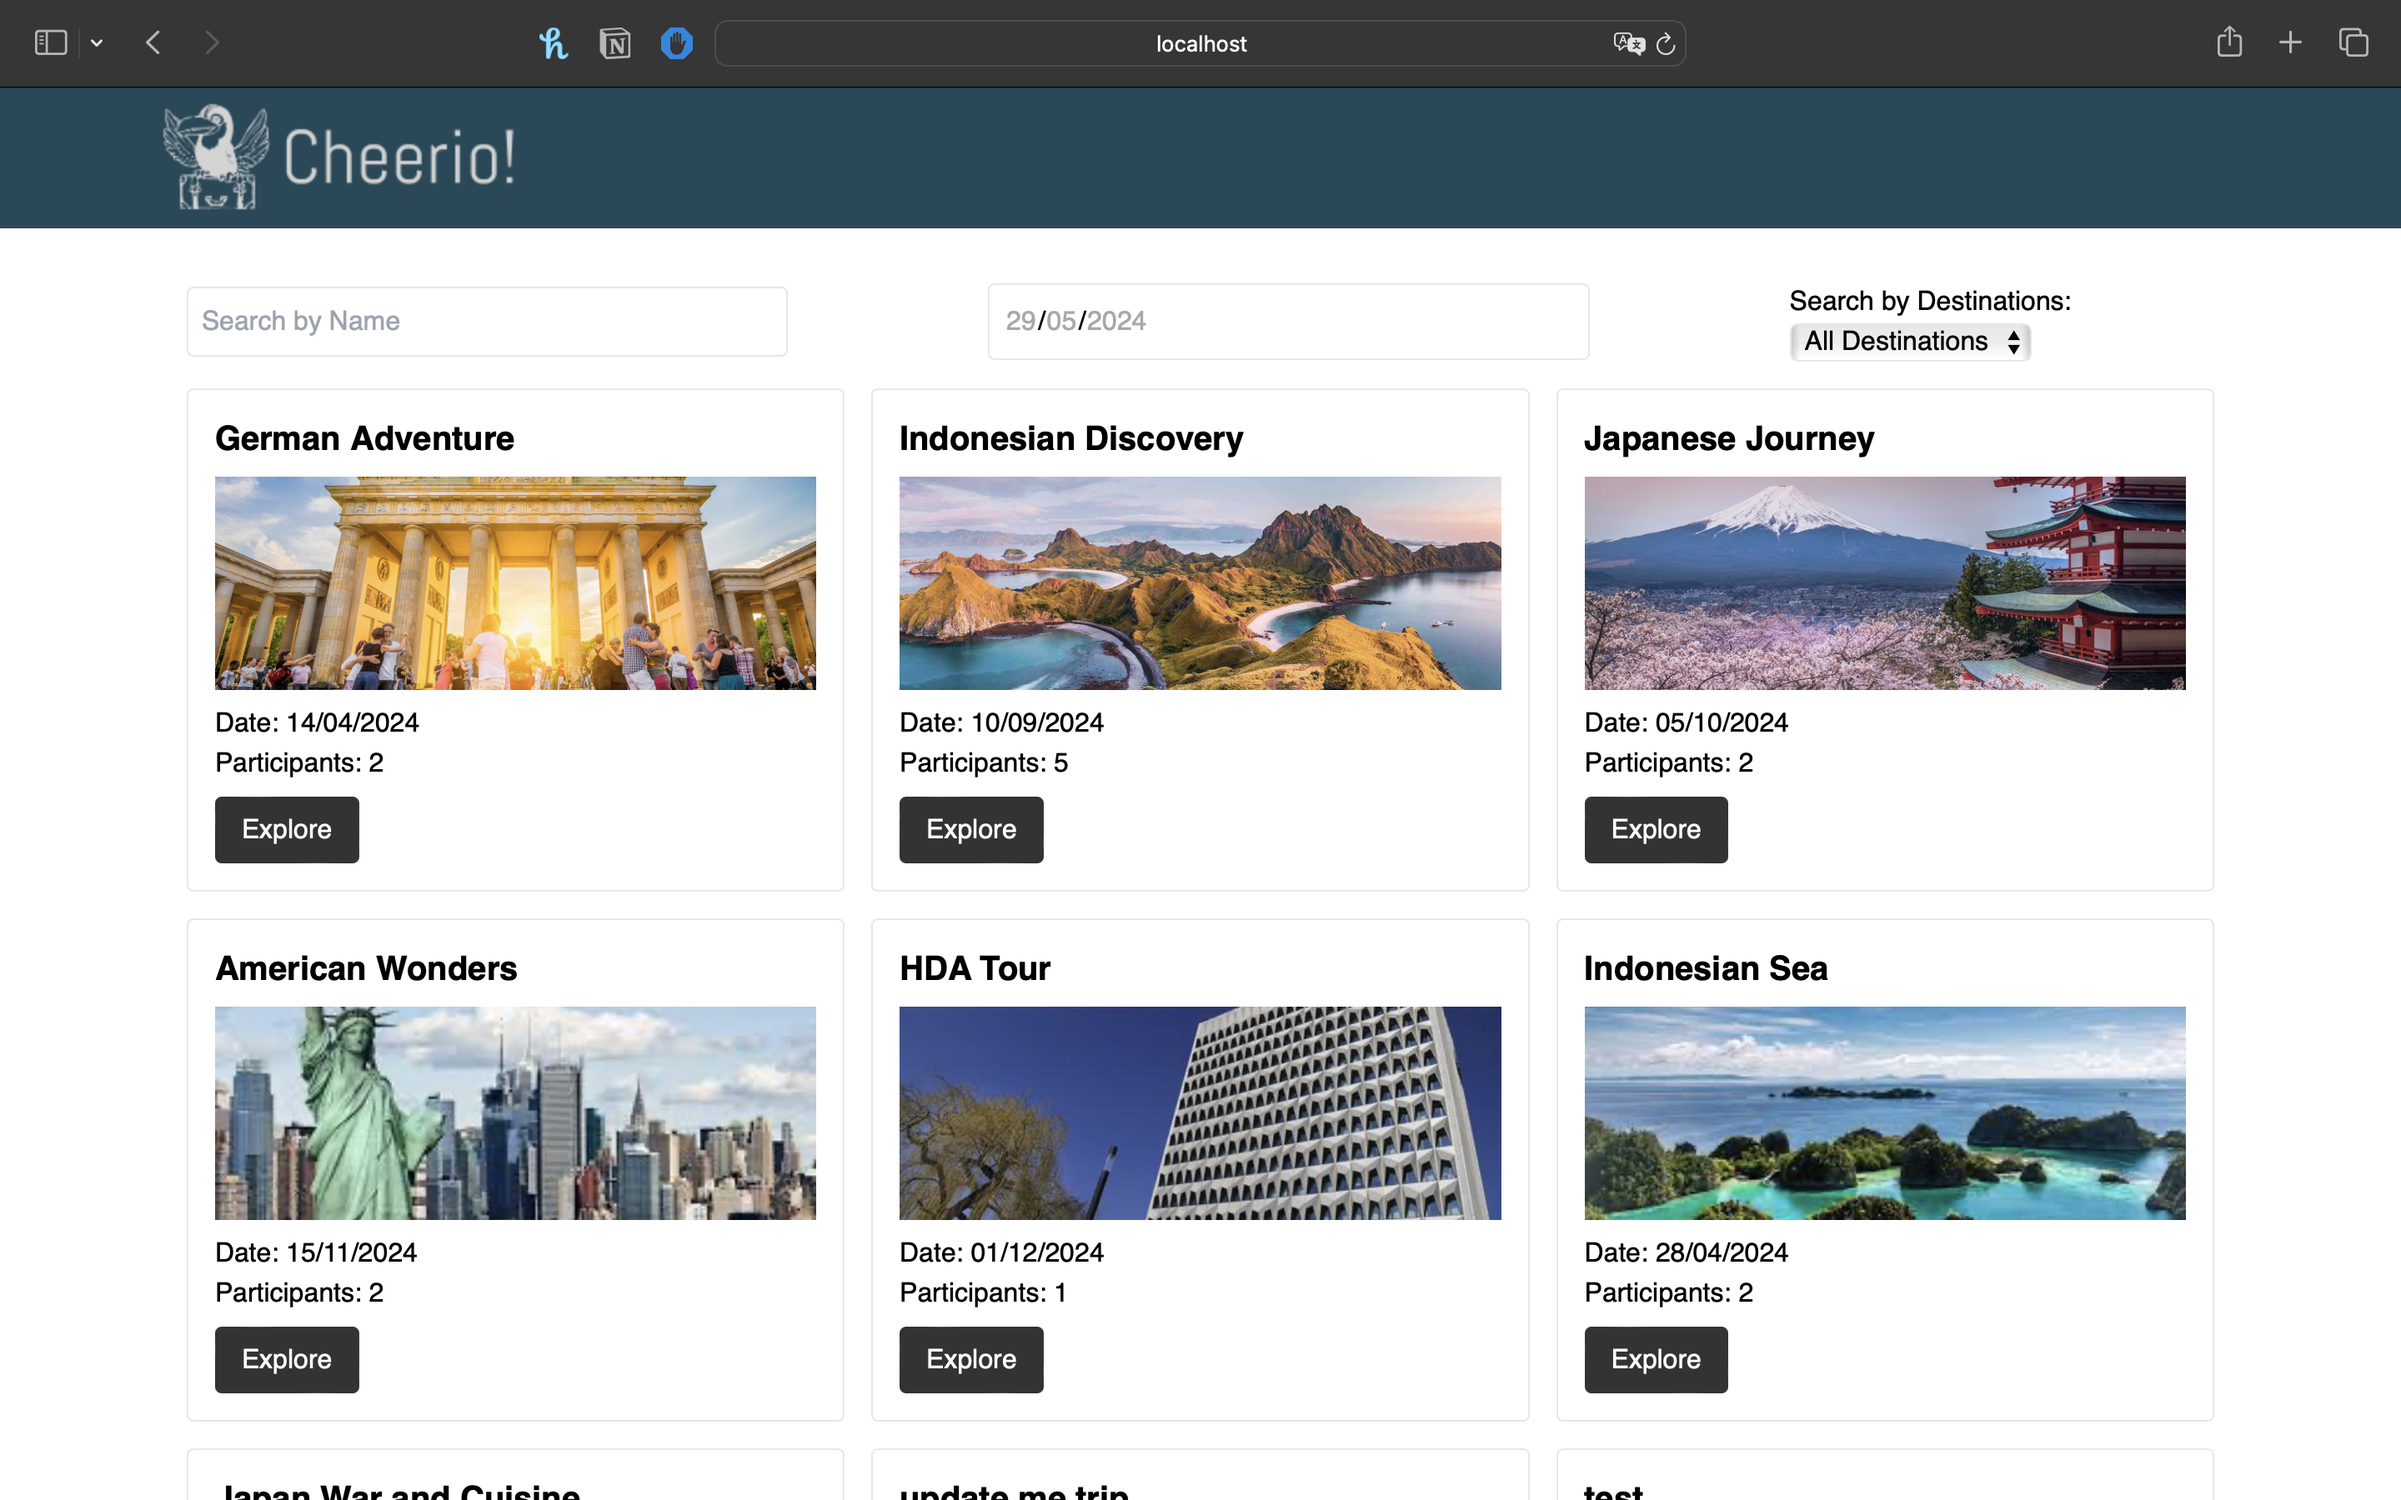
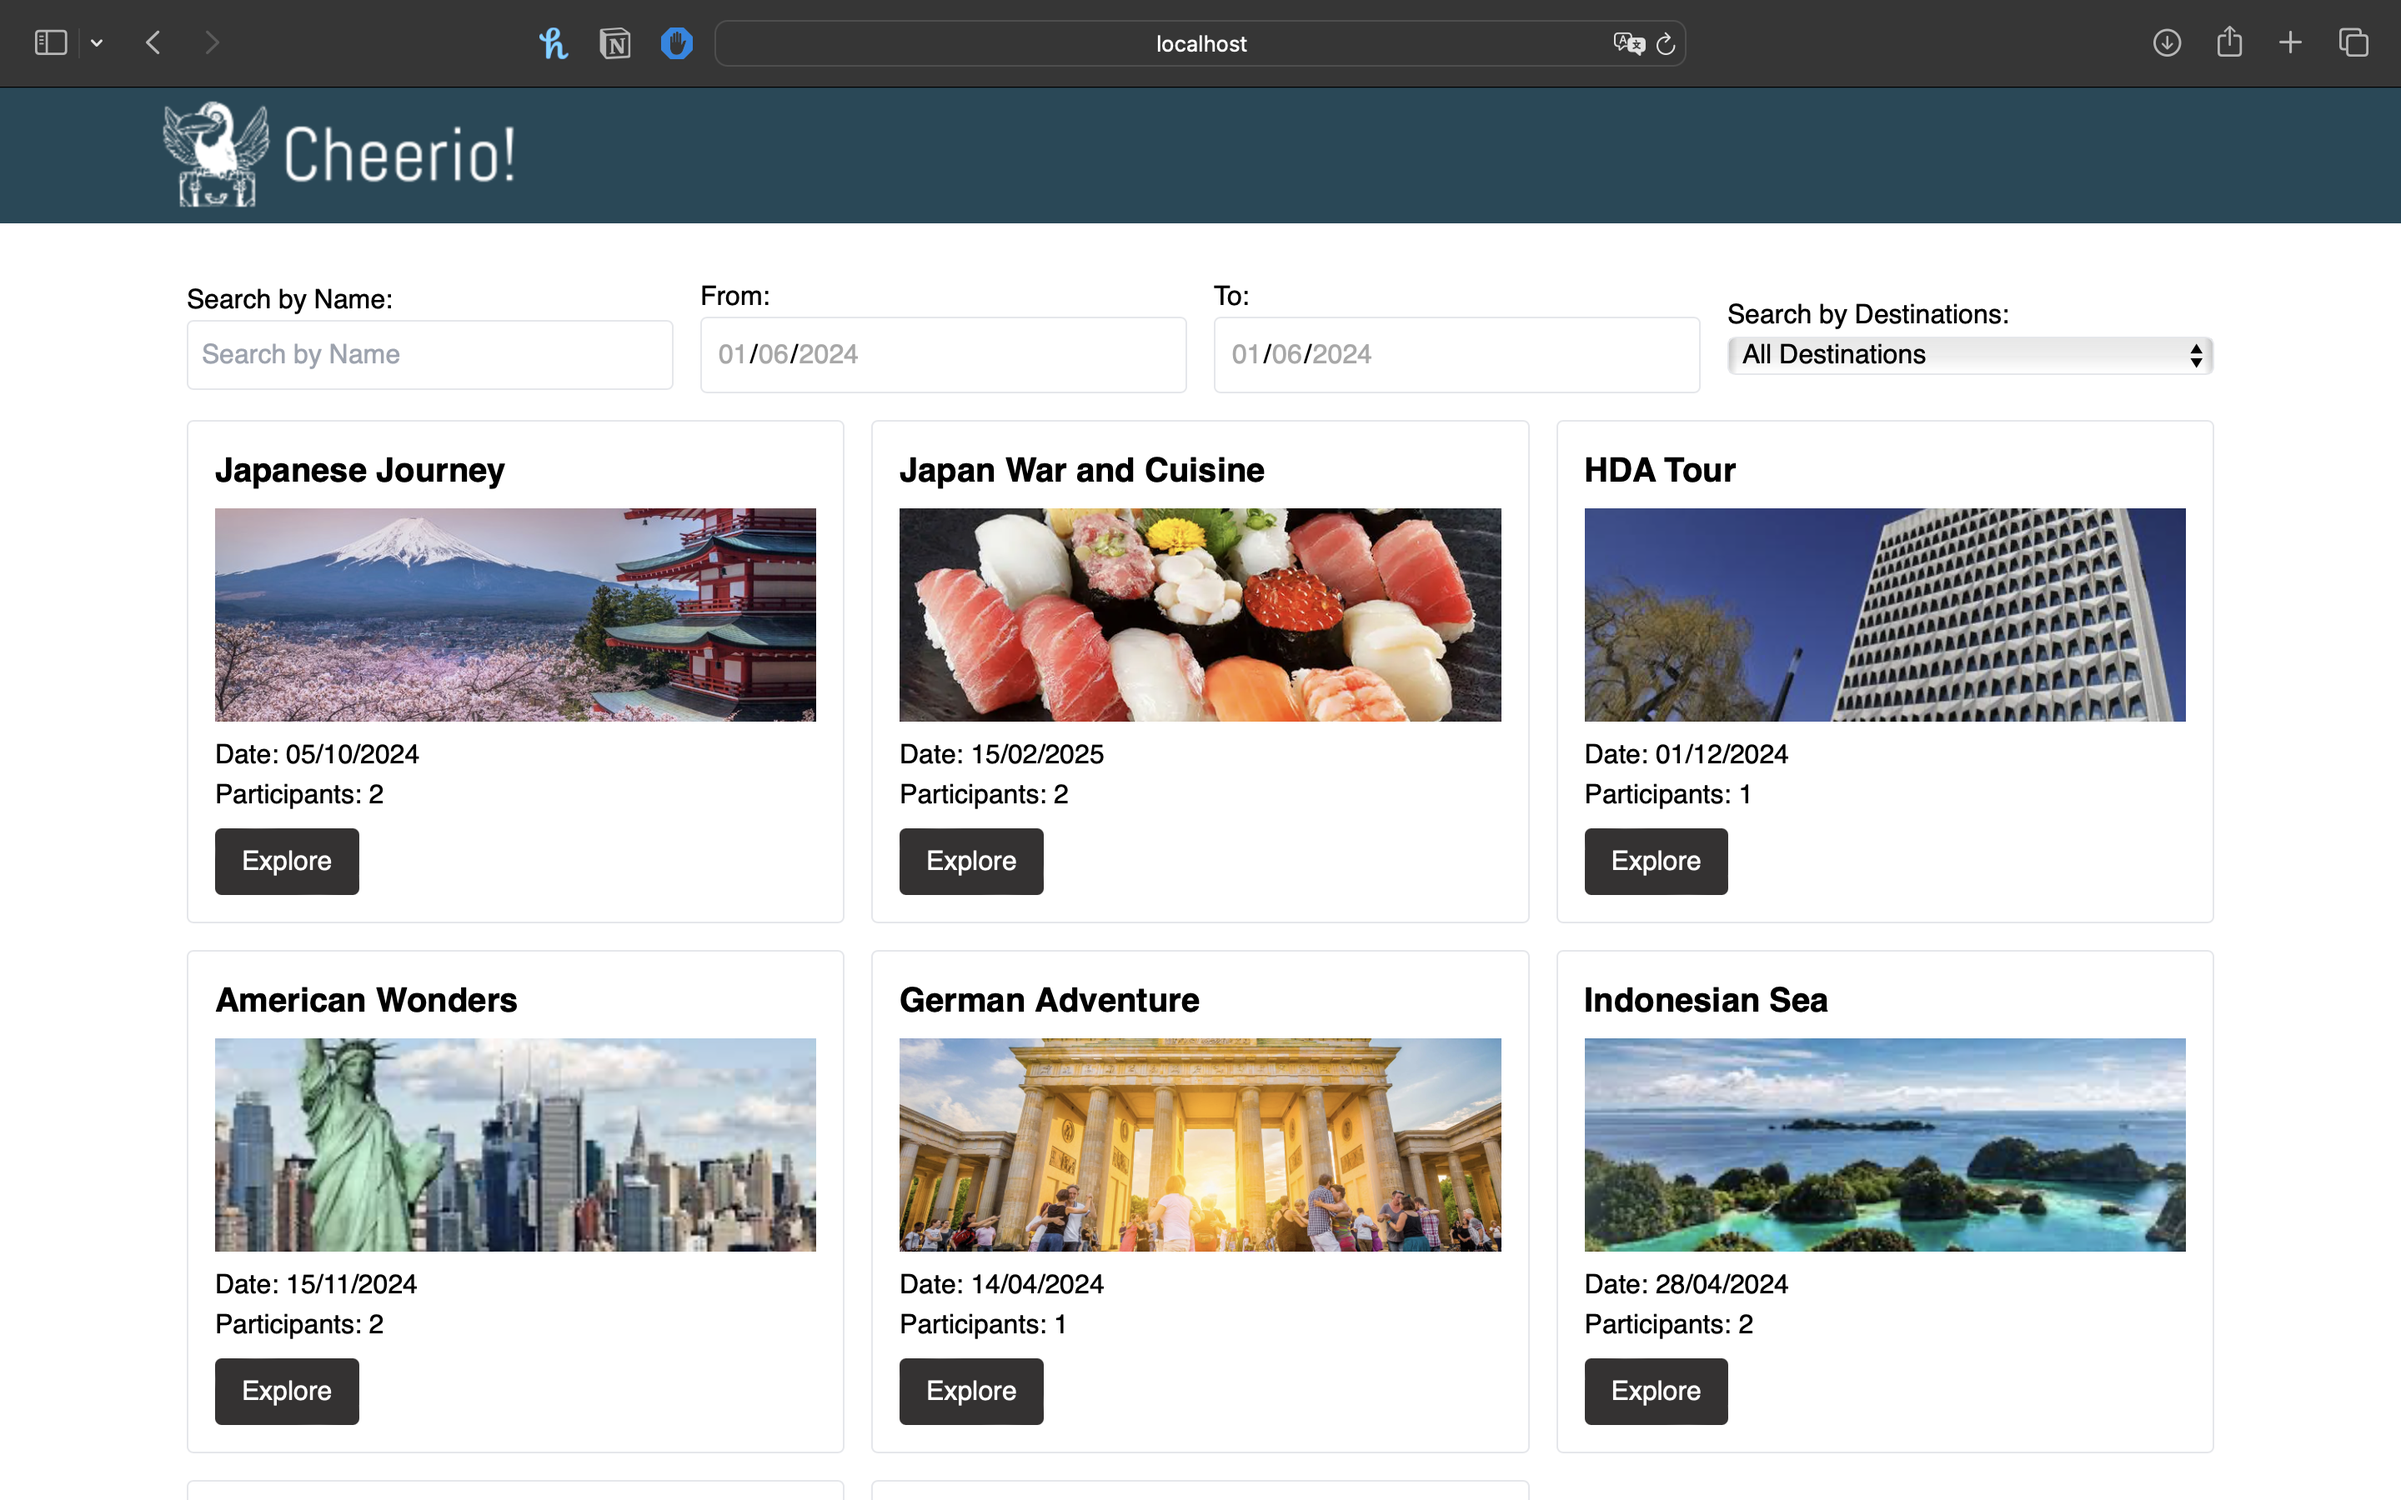
change date filteirng from to

diff --git a/server/src/tests/trips.test.ts b/server/src/tests/trips.test.ts
@@ -276,40 +276,73 @@ describe('Trip API', () => {
     expect(response.body[0].name).toBe('Trip 1');
   });
   
-  it('should find trips based on date', async () => {
-    const tripData = [
-      { name: 'Trip 1', description: 'Description of trip 1', imageUrl: 'image-url', participants: [], destinations: [], date: '2022-01-01' },
-      { name: 'Trip 2', description: 'Description of trip 2', imageUrl: 'image-url', participants: [], destinations: [], date: '2022-01-02' },
-      { name: 'Trip 3', description: 'Description of trip 3', imageUrl: 'image-url', participants: [], destinations: [], date: '2022-01-03' },
-    ];
   
-    await Trip.insertMany(tripData);
+  describe('Trip API Date Range Filtering', () => {
+    beforeEach(async () => {
+      const tripData = [
+        { name: 'Trip 1', description: 'Description of trip 1', imageUrl: 'image-url', participants: [], destinations: [], date: '2022-01-01' },
+        { name: 'Trip 2', description: 'Description of trip 2', imageUrl: 'image-url', participants: [], destinations: [], date: '2022-01-15' },
+        { name: 'Trip 3', description: 'Description of trip 3', imageUrl: 'image-url', participants: [], destinations: [], date: '2022-02-01' },
+      ];
   
-    const response = await request(app)
-      .get('/trips')
-      .query({ date: '2022-01-02' })
-      .expect(200);
+      await Trip.insertMany(tripData);
+    });
   
-    expect(response.body.length).toBe(1);
+    it('should find trips within a date range', async () => {
+      const response = await request(app)
+        .get('/trips')
+        .query({ dateFrom: '2022-01-01', dateTo: '2022-01-31' })
+        .expect(200);
+  
+      expect(response.body.length).toBe(2);
+      expect(response.body).toEqual(expect.arrayContaining([
+        expect.objectContaining({ name: 'Trip 1' }),
+        expect.objectContaining({ name: 'Trip 2' }),
+      ]));
+    });
+  
+    it('should find trips from a specific start date', async () => {
+      const response = await request(app)
+        .get('/trips')
+        .query({ dateFrom: '2022-01-10' })
+        .expect(200);
+  
+      expect(response.body.length).toBe(2);
+      expect(response.body).toEqual(expect.arrayContaining([
+        expect.objectContaining({ name: 'Trip 2' }),
+        expect.objectContaining({ name: 'Trip 3' }),
+      ]));
+    });
+  
+    it('should find trips up to a specific end date', async () => {
+      const response = await request(app)
+        .get('/trips')
+        .query({ dateTo: '2022-01-10' })
+        .expect(200);
+  
+      expect(response.body.length).toBe(1);
+      expect(response.body[0].name).toBe('Trip 1');
+    });
+  
+    it('should return an empty array if no trips fall within the date range', async () => {
+      const response = await request(app)
+        .get('/trips')
+        .query({ dateFrom: '2023-01-01', dateTo: '2023-01-31' })
+        .expect(200);
+  
+      expect(response.body.length).toBe(0);
+    });
+  
+    it('should return an error for invalid date formats', async () => {
+      const response = await request(app)
+        .get('/trips')
+        .query({ dateFrom: 'invalid-date', dateTo: '2022-01-31' })
+        .expect(400);
+  
+      expect(response.body.message).toBe('Invalid from date format');
+    });
   });
   
-  it('should find trips based on name and date', async () => {
-    const tripData = [
-      { name: 'Trip 1', description: 'Description of trip 1', imageUrl: 'image-url', participants: [], destinations: [], date: '2022-01-01' },
-      { name: 'Trip 2', description: 'Description of trip 2', imageUrl: 'image-url', participants: [], destinations: [], date: '2022-01-02' },
-      { name: 'Trip 3', description: 'Description of trip 3', imageUrl: 'image-url', participants: [], destinations: [], date: '2022-01-03' },
-    ];
-  
-    await Trip.insertMany(tripData);
-  
-    const response = await request(app)
-      .get('/trips')
-      .query({ name: 'Trip 1', date: '2022-01-01' })
-      .expect(200);
-
-    expect(response.body.length).toBe(1);
-    expect(response.body[0].name).toBe('Trip 1');
-  });
   
 
   it('should find trips based on destination', async () => {

diff --git a/client/src/components/Trips.tsx b/client/src/components/Trips.tsx
@@ -11,13 +11,14 @@ const Trips = () => {
   const navigate = useNavigate();
   const [trips, setTrips] = useState([]);
   const [searchTerm, setSearchTerm] = useState("");
-  const [dateFilter, setDateFilter] = useState("");
+  const [dateFrom, setDateFrom] = useState("");
+  const [dateTo, setDateTo] = useState("");
   const [destinations, setDestinations] = useState([]);
   const [selectedDestination, setSelectedDestination] = useState("");
 
   useEffect(() => {
     const fetchData = async () => {
-      const data = await searchTrips({ name: searchTerm, date: dateFilter });
+      const data = await searchTrips({ name: searchTerm, dateFrom, dateTo });
       setTrips(data);
     };
 
@@ -28,7 +29,7 @@ const Trips = () => {
 
     fetchData();
     fetchDestinations();
-  }, [searchTerm, dateFilter]);
+  }, [searchTerm, dateFrom, dateTo]);
 
   const handleExploreClick = (trip: any) => {
     navigate(`/destination/${trip._id}`);
@@ -36,7 +37,7 @@ const Trips = () => {
 
   const handleDestinationChange = async (destinationId: string) => {
     if (destinationId === "") {
-      const data = await searchTrips({ name: searchTerm, date: dateFilter });
+      const data = await searchTrips({ name: searchTerm, dateFrom, dateTo });
       setTrips(data);
       setSelectedDestination("");
     } else {
@@ -49,32 +50,50 @@ const Trips = () => {
   return (
     <Layout>
       <div className="container mx-auto p-4">
-        <div className="flex justify-between items-center mb-4">
-          <div className="w-1/2">
+        <div className="flex justify-between items-center mb-4 gap-4">
+          <div className="w-1/4">
+          <label htmlFor="destination" className="mr-2">
+              Search by Name:
+            </label>
             <input
               type="text"
               placeholder="Search by Name"
-              className="border p-2 rounded w-3/4 m-auto"
+              className="border p-2 rounded w-full"
               value={searchTerm}
               onChange={(e) => setSearchTerm(e.target.value)}
             />
           </div>
-          <div className="w-1/2">
+          <div className="w-1/4">
+          <label htmlFor="destination" className="mr-2">
+              From:
+            </label>
             <input
               type="date"
-              placeholder="Filter by Date"
-              className="border p-2 rounded w-3/4 m-auto"
-              value={dateFilter}
-              onChange={(e) => setDateFilter(e.target.value)}
+              placeholder="From Date"
+              className="border p-2 rounded w-full"
+              value={dateFrom}
+              onChange={(e) => setDateFrom(e.target.value)}
             />
           </div>
-          <div className="relative">
+          <div className="w-1/4">
+          <label htmlFor="destination" className="mr-2">
+             To:
+            </label>
+            <input
+              type="date"
+              placeholder="To Date"
+              className="border p-2 rounded w-full"
+              value={dateTo}
+              onChange={(e) => setDateTo(e.target.value)}
+            />
+          </div>
+          <div className="relative w-1/4">
             <label htmlFor="destination" className="mr-2">
               Search by Destinations:
             </label>
             <select
               id="destination"
-              className="border p-2 rounded"
+              className="border p-2 rounded w-full"
               value={selectedDestination}
               onChange={(e) => handleDestinationChange(e.target.value)}
             >

diff --git a/server/src/routes/trips.ts b/server/src/routes/trips.ts
@@ -130,10 +130,9 @@ tripRouter.get('/:id', async (req, res) => {
   }
 });
 
-// Find trips based on name or date or both
 tripRouter.get('/', async (req, res) => {
   try {
-    const { name, date } = req.query;
+    const { name, dateFrom, dateTo } = req.query;
 
     const query: any = {};
 
@@ -141,9 +140,24 @@ tripRouter.get('/', async (req, res) => {
       query.name = { $regex: new RegExp(name as string, 'i') };
     }
 
-    if (date) {
-      const parsedDate = new Date(date as string);
-      query.date = parsedDate
+    if (dateFrom || dateTo) {
+      query.date = {};
+      if (dateFrom) {
+        const parsedDateFrom = new Date(dateFrom as string);
+        if (!isNaN(parsedDateFrom.getTime())) {
+          query.date.$gte = parsedDateFrom;
+        } else {
+          return res.status(400).json({ message: 'Invalid from date format' });
+        }
+      }
+      if (dateTo) {
+        const parsedDateTo = new Date(dateTo as string);
+        if (!isNaN(parsedDateTo.getTime())) {
+          query.date.$lte = parsedDateTo;
+        } else {
+          return res.status(400).json({ message: 'Invalid to date format' });
+        }
+      }
     }
 
     const trips = await Trip.find(query);
@@ -152,6 +166,7 @@ tripRouter.get('/', async (req, res) => {
     res.status(500).json({ message: 'Failed to fetch trips', error });
   }
 });
+
 
 // Find trips based on destination
 tripRouter.get('/byDestination/:id', async (req, res) => {

diff --git a/client/src/services/api.ts b/client/src/services/api.ts
@@ -99,10 +99,11 @@ export const getTripById = async (id: string) => {
   return response.data;
 };
 
-export const searchTrips = async (params?: {name?: string, date?: string}) => {
-    const response = await api.get('/trips', { params });
-    return response.data;
+export const searchTrips = async (params?: { name?: string, dateFrom?: string, dateTo?: string }) => {
+  const response = await api.get('/trips', { params });
+  return response.data;
 };
+
 
 export const getTripsByDestination = async (id: string) => {
   const response = await api.get(`/trips/byDestination/${id}`);

diff --git a/server/src/tests/destinations.test.ts b/server/src/tests/destinations.test.ts
@@ -195,7 +195,6 @@ it('should create a new destination', async () => {
 
   await new Promise((resolve) => setTimeout(resolve, 1000));
   
-  console.log(response.body);
   expect(response.status).toBe(201);
   expect(response.body).toHaveProperty('_id');
   expect(response.body.name).toBe(destination.name);

diff --git a/README.md b/README.md
@@ -124,7 +124,7 @@ Cheerio Travel App is a platform where users can search for trips and destinatio
 - `PUT /trips/:id/addDestinations` - Add destinations to a trip
 - `PUT /trips/:id/removeDestinations` - Remove destinations from a trip
 - `GET /trips/:id` - Get a trip by ID
-- `GET /trips` - Find trips based on name or date
+- `GET /trips` - Find trips based on name or date(From: Date to: Date)
 - `GET /trips/byDestination/:id` - Find trips based on destination
 - `PUT /trips/:id/addParticipants` - Add participants to a trip
 
